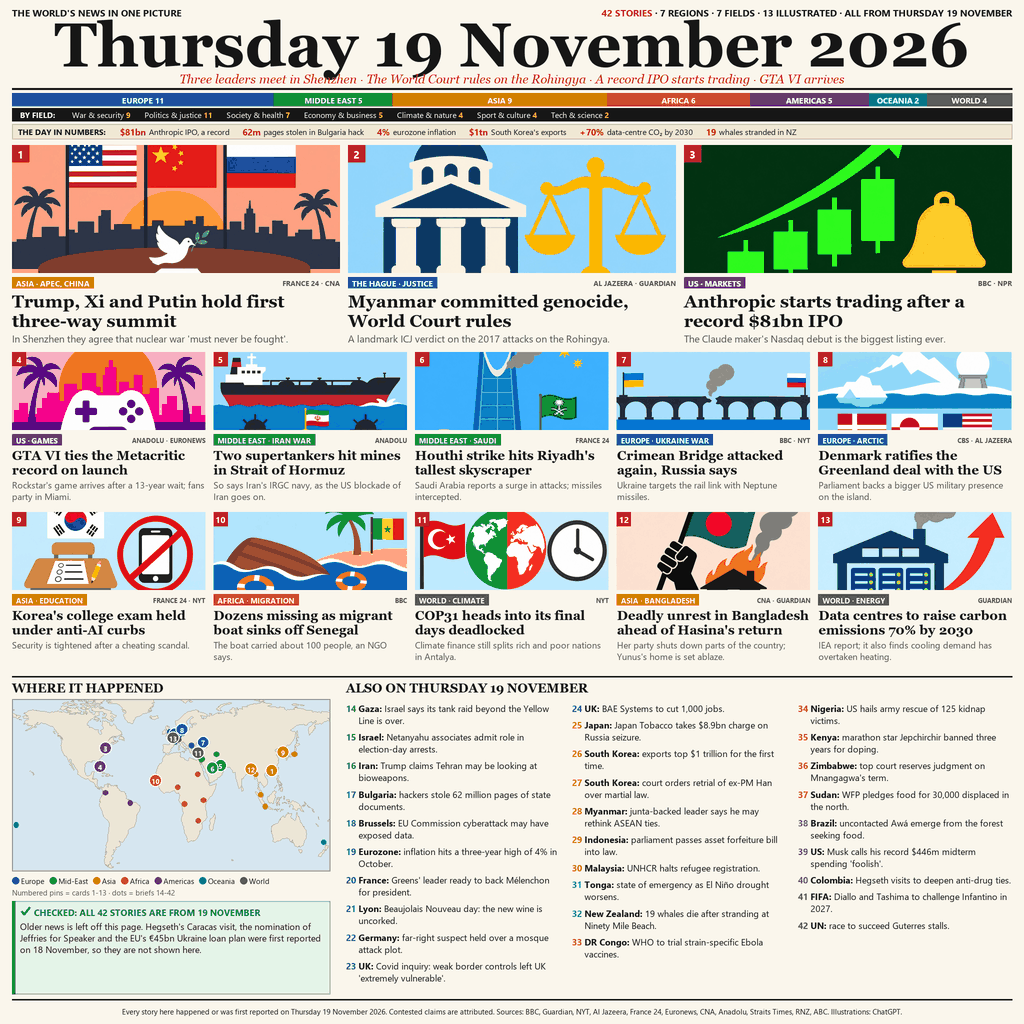
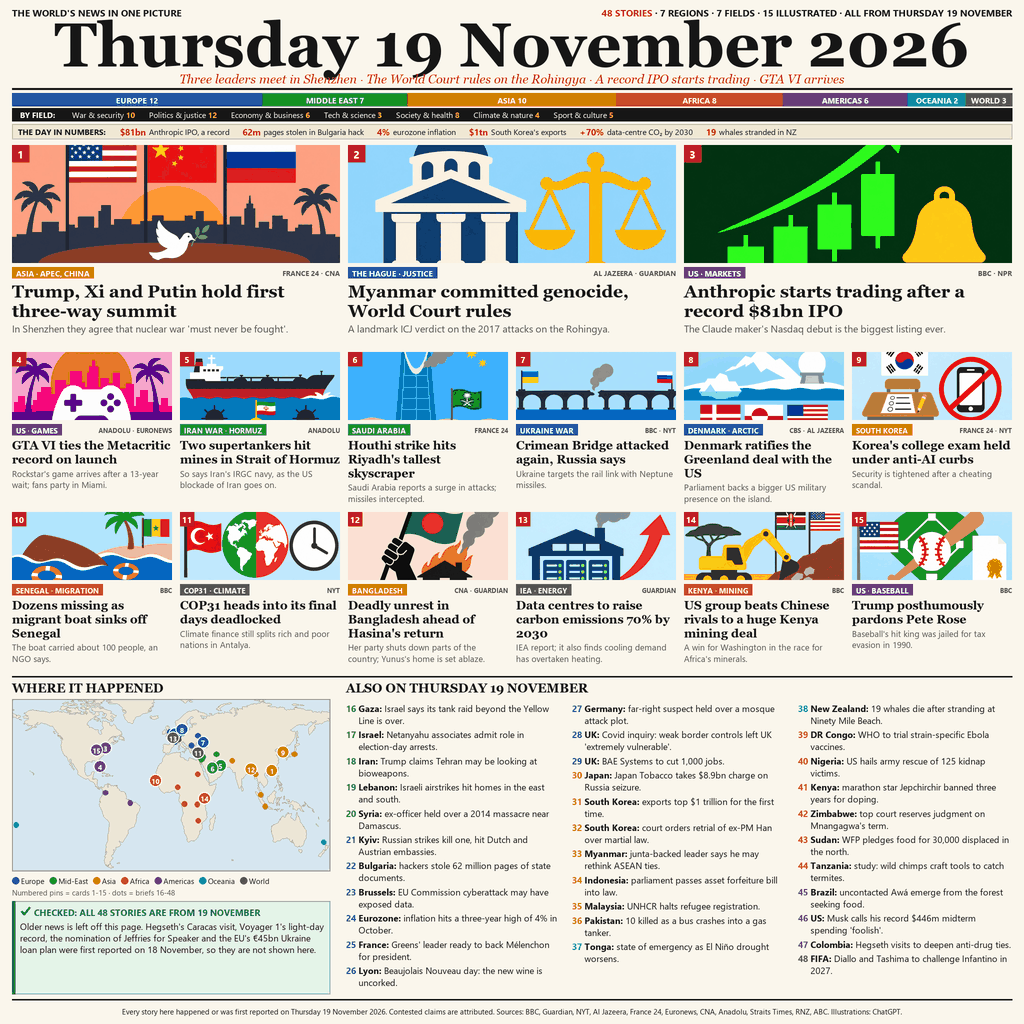
v3: 48 stories, 15 illustrated cards (3 leads + 2 rows of 6), 33 briefs

diff --git a/README.md b/README.md
@@ -4,11 +4,13 @@
 [![rank](https://make.fun/badge/news-image-20261119/0xfani/news-image-20261119/rank.svg)](https://make.fun/bounty/news-image-20261119/leaderboard?utm_source=github&utm_medium=readme&utm_campaign=news-image-20261119)
 [![reward](https://make.fun/badge/news-image-20261119/0xfani/news-image-20261119/reward.svg)](https://make.fun/bounty/news-image-20261119?utm_source=github&utm_medium=readme&utm_campaign=news-image-20261119)
 
-One front page of the world's news on Thursday 19 November 2026: 42 stories from
+One front page of the world's news on Thursday 19 November 2026: 48 stories from
 seven regions and seven fields. Three illustrated lead stories (the Trump-Xi-Putin
 summit in Shenzhen, the World Court's Rohingya genocide ruling, Anthropic's record
-market debut), ten illustrated cards, a world map with numbered pins, 29 briefs and
-a date check naming stories left out because they were first reported on 18 November.
+market debut), twelve more illustrated cards in two rows of six (15 in all, with a
+US-Kenya mining deal and Pete Rose's pardon added in v3), a world map with numbered
+pins, 33 numbered briefs (Kyiv, Lebanon, Syria, Pakistan and Tanzania added) and a
+green date check naming stories left out because they were first reported on 18 November.
 
 - `entry.png` is the picture (1024 x 1024 PNG). It was drawn with Pillow from a
   checked story list; the illustrations were made with ChatGPT image generation and
